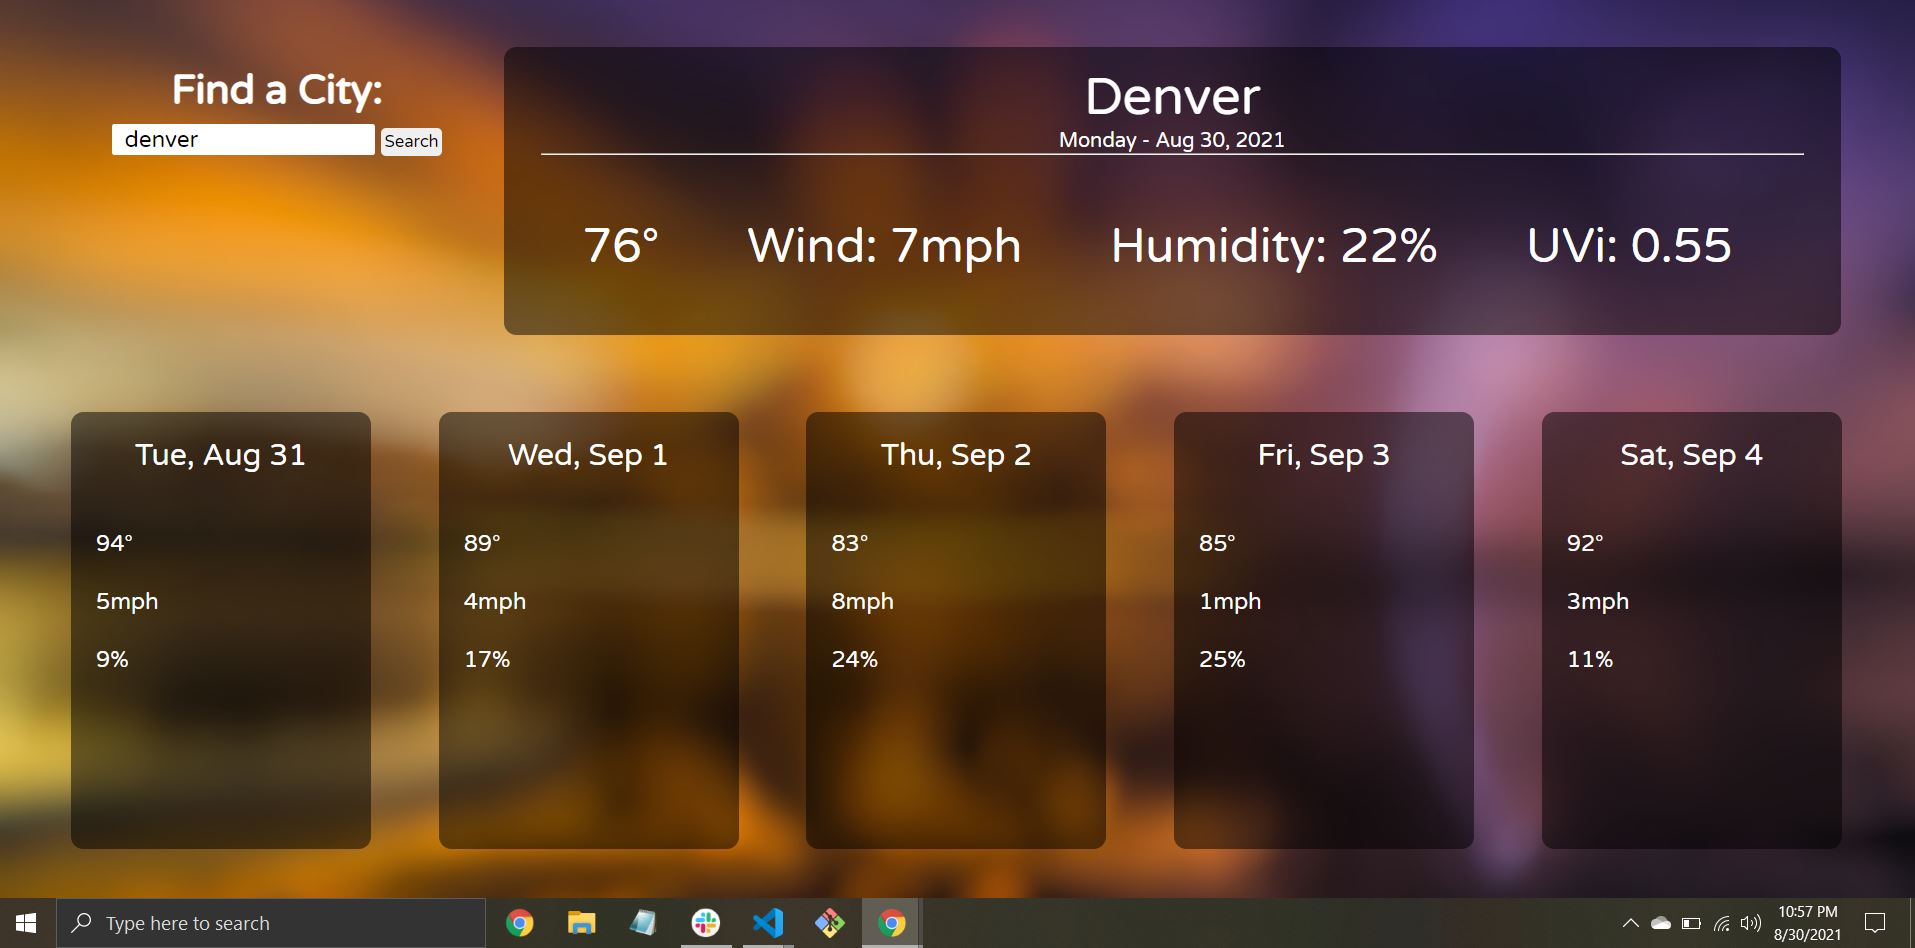
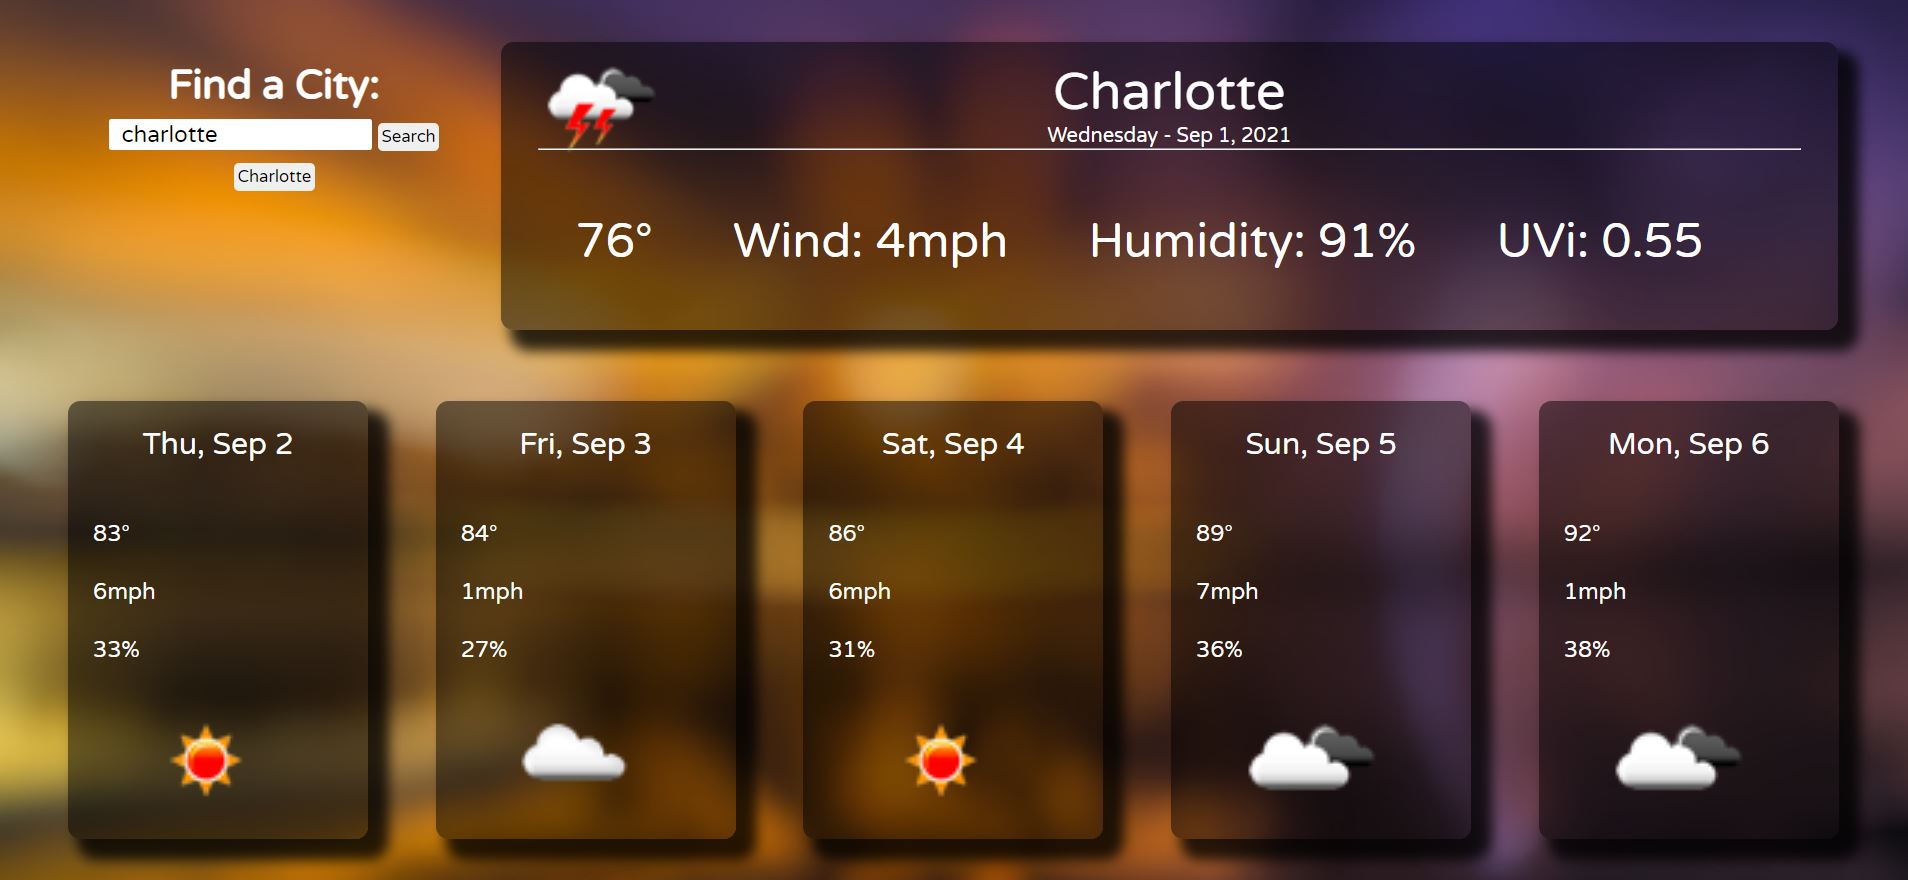
new screenshot

diff --git a/script.js b/script.js
@@ -60,7 +60,6 @@ function searchForCity(event) {
                 document.getElementById('forecast-temp' + i).textContent = parseInt(data.list[i].main.temp) + "°";
                 document.getElementById('forecast-wind' + i).textContent = parseInt(data.list[i].wind.speed) + "mph";
                 document.getElementById('forecast-humidity' + i).textContent = parseInt(data.list[i].main.humidity) + "%";
-                
                 var iconForecast = data.list[i].weather[0].icon;
                 var iconUrlForecast = "http://openweathermap.org/img/w/" + iconForecast + ".png";
                 document.getElementById('forecast-icon' + i).setAttribute('src', iconUrlForecast);

diff --git a/styles.css b/styles.css
@@ -13,9 +13,8 @@ body {
     background-size: cover;
 }
 
-.hover:hover {
-    box-shadow: 0px 0px 10px 2px rgba(0, 0, 0, 0.65);
-    transition: all 0.15s ease;
+.hover {
+    box-shadow: 12px 12px 10px 5px rgba(0, 0, 0, 0.8);
 }
 
 .left {
@@ -62,7 +61,7 @@ button {
 
 button:hover {
     cursor: pointer;
-    box-shadow: 0 0 5px black;
+    box-shadow: 2px 2px 3px 1px black;
 }
 
 .current {
@@ -123,6 +122,12 @@ main {
     border-radius: 10px;
     display: inline-block;
     margin: 0px 25px 0px 25px;
+}
+
+.box img {
+    width: 120px;
+    margin-left: 50px;
+    margin-top: 20px;
 }
 
 .main-temp {
